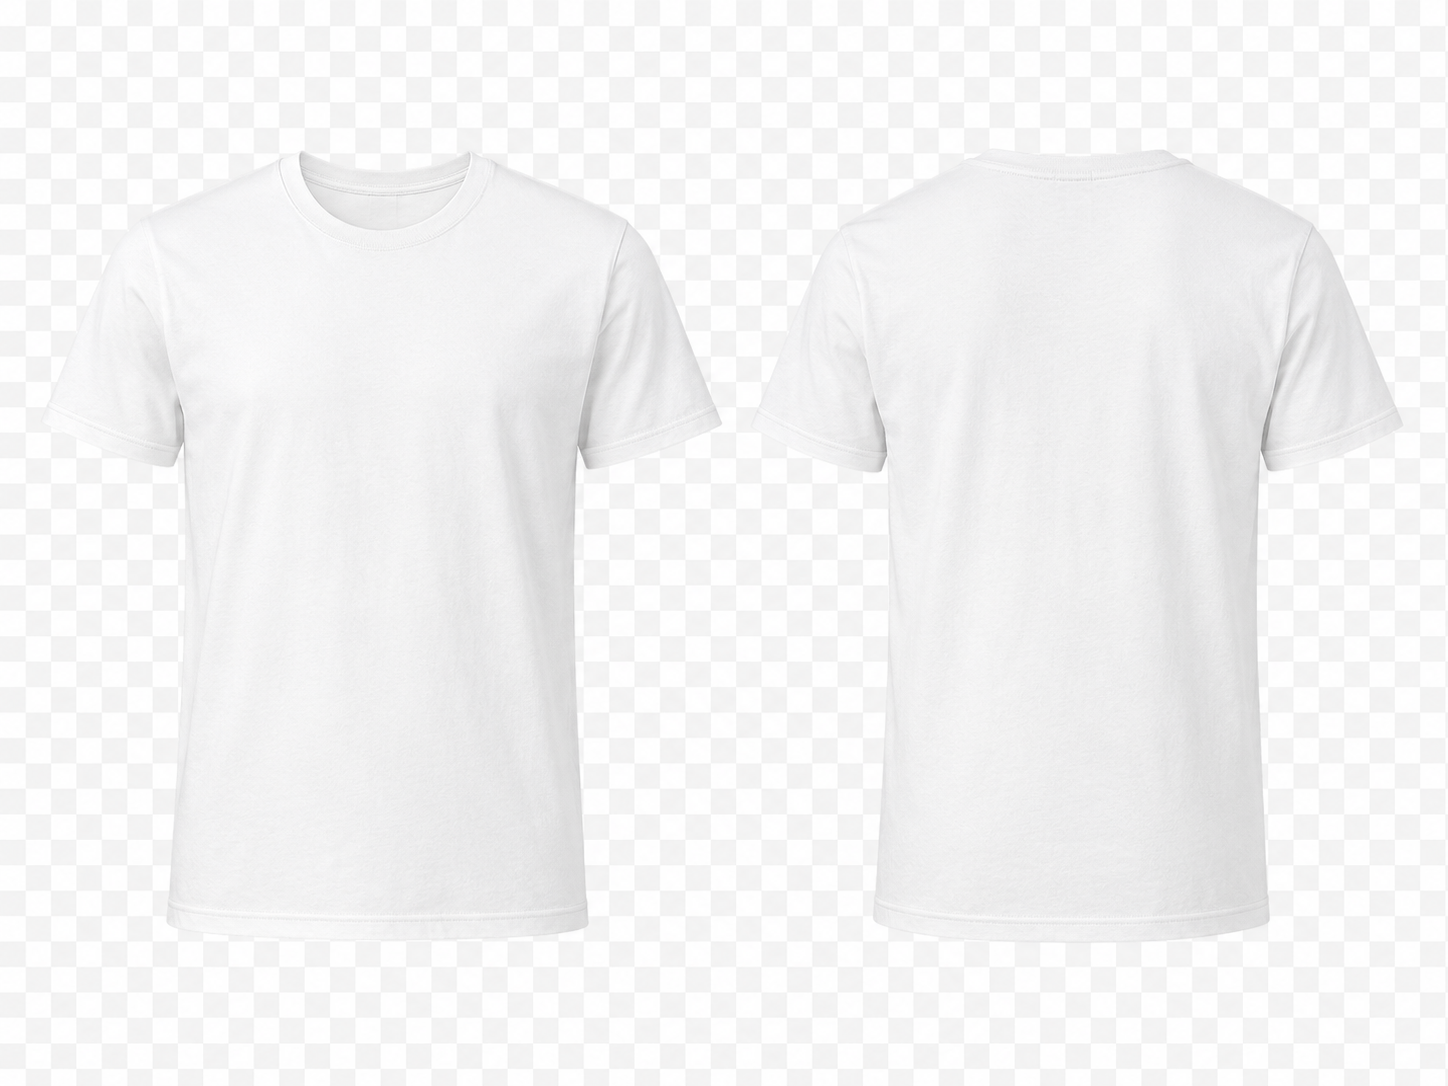
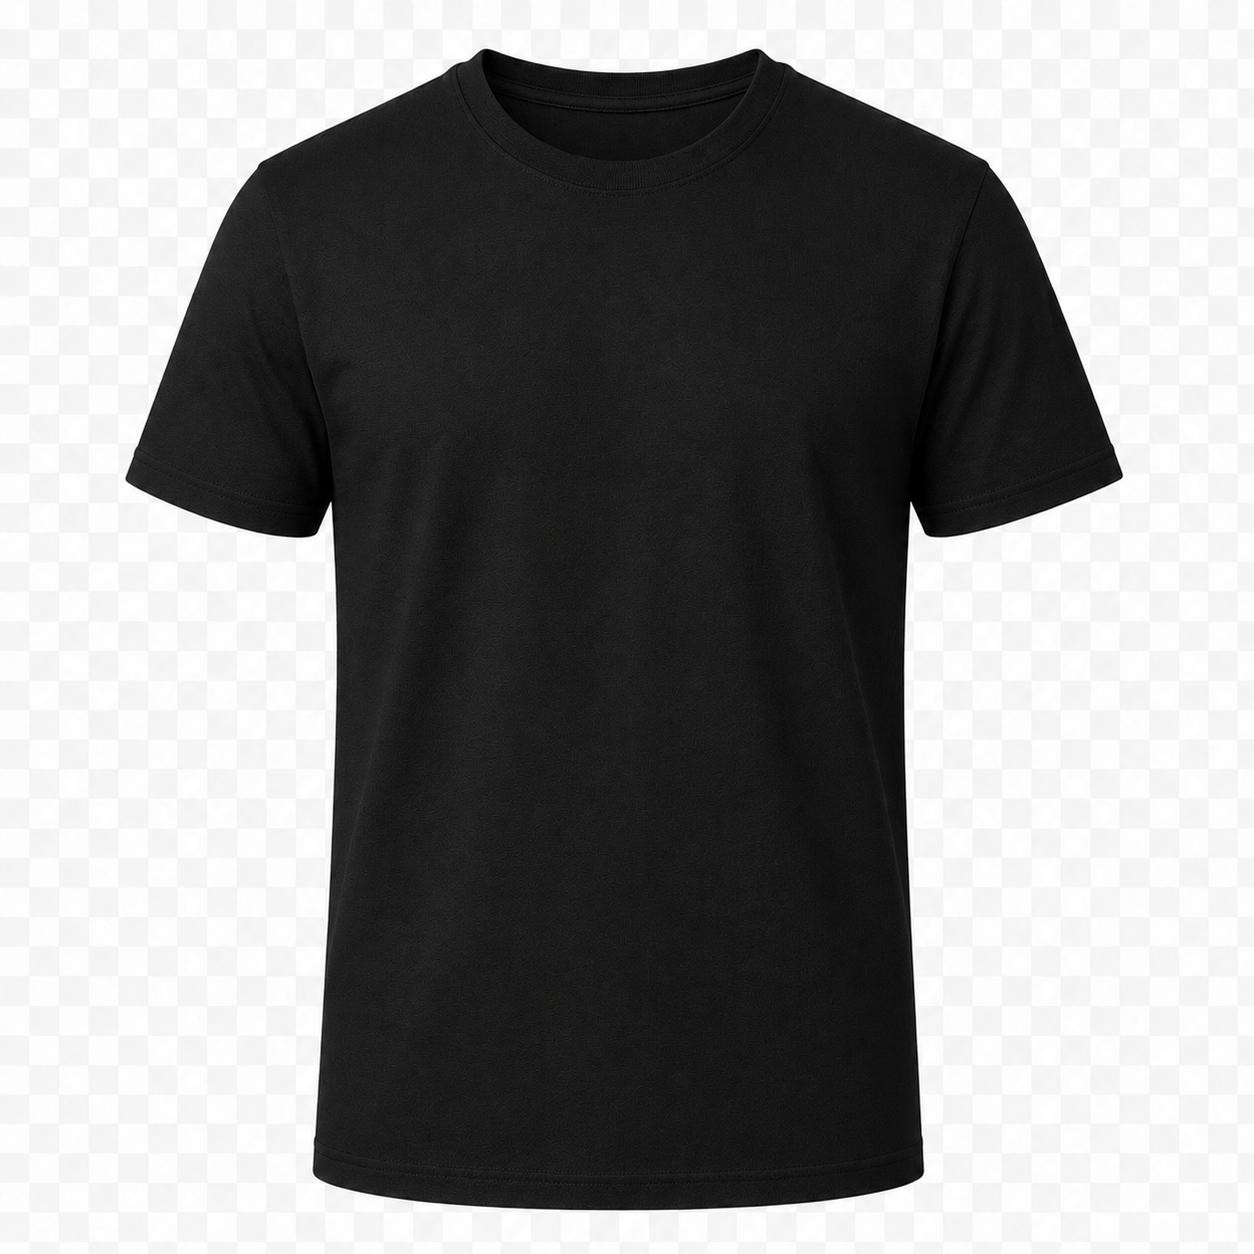
save

diff --git a/components/configurator/ConfiguratorPreview.tsx b/components/configurator/ConfiguratorPreview.tsx
@@ -2,7 +2,11 @@
 
 import { useRef } from "react";
 import type { PointerEvent as ReactPointerEvent } from "react";
-import { useConfiguratorStore } from "@/features/configurator/store";
+import {
+  useConfiguratorStore,
+  GRAPHIC_SCALE_MIN,
+  GRAPHIC_SCALE_MAX,
+} from "@/features/configurator/store";
 import { GarmentPhoto } from "@/components/configurator/GarmentPhoto";
 import { getGarment } from "@/lib/garments";
 import { getPrintArea, printAreaClipPath, clampToPrintArea } from "@/features/configurator/printArea";
@@ -24,15 +28,18 @@ function iconTintFor(color: GarmentColorId): string {
 
 type DragLayer = "graphic" | "text";
 
+function clamp(value: number, min: number, max: number): number {
+  return Math.min(max, Math.max(min, value));
+}
+
+type DragState =
+  | { mode: "move"; layer: DragLayer; startX: number; startY: number; origX: number; origY: number }
+  | { mode: "resize"; startX: number; startY: number; origScale: number; centerX: number; centerY: number };
+
 export function ConfiguratorPreview() {
   const frameRef = useRef<HTMLDivElement>(null);
-  const dragRef = useRef<{
-    layer: DragLayer;
-    startX: number;
-    startY: number;
-    origX: number;
-    origY: number;
-  } | null>(null);
+  const graphicRef = useRef<HTMLDivElement>(null);
+  const dragRef = useRef<DragState | null>(null);
 
   const {
     garmentStyle,
@@ -60,6 +67,7 @@ export function ConfiguratorPreview() {
     if (!target) return;
     e.currentTarget.setPointerCapture(e.pointerId);
     dragRef.current = {
+      mode: "move",
       layer,
       startX: e.clientX,
       startY: e.clientY,
@@ -68,10 +76,39 @@ export function ConfiguratorPreview() {
     };
   }
 
+  function handleResizeStart(e: ReactPointerEvent) {
+    e.stopPropagation();
+    if (!side.graphic || !graphicRef.current) return;
+    e.currentTarget.setPointerCapture(e.pointerId);
+    const box = graphicRef.current.getBoundingClientRect();
+    dragRef.current = {
+      mode: "resize",
+      startX: e.clientX,
+      startY: e.clientY,
+      origScale: side.graphic.scale,
+      centerX: box.left + box.width / 2,
+      centerY: box.top + box.height / 2,
+    };
+  }
+
   function handlePointerMove(e: ReactPointerEvent) {
     const drag = dragRef.current;
     const frame = frameRef.current;
     if (!drag || !frame) return;
+
+    if (drag.mode === "resize") {
+      const startDist = Math.hypot(drag.startX - drag.centerX, drag.startY - drag.centerY);
+      const currentDist = Math.hypot(e.clientX - drag.centerX, e.clientY - drag.centerY);
+      if (startDist < 1) return;
+      const nextScale = clamp(
+        drag.origScale * (currentDist / startDist),
+        GRAPHIC_SCALE_MIN,
+        GRAPHIC_SCALE_MAX,
+      );
+      updateGraphic(view, { scale: nextScale });
+      return;
+    }
+
     const rect = frame.getBoundingClientRect();
     const dxPct = ((e.clientX - drag.startX) / rect.width) * 100;
     const dyPct = ((e.clientY - drag.startY) / rect.height) * 100;
@@ -104,31 +141,57 @@ export function ConfiguratorPreview() {
       >
         {side.graphic && (
           <div
+            ref={graphicRef}
             aria-hidden="true"
             onPointerDown={(e) => handlePointerDown(e, "graphic")}
             className="absolute left-1/2 top-1/2 h-24 w-24 cursor-grab active:cursor-grabbing"
             style={{
               transform: `translate(-50%, -50%) translate(${side.graphic.x}%, ${side.graphic.y}%) scale(${side.graphic.scale}) rotate(${side.graphic.rotation}deg)`,
-              mixBlendMode: useMultiply ? "multiply" : undefined,
             }}
           >
-            {side.graphic.source === "upload" ? (
-              // eslint-disable-next-line @next/next/no-img-element -- user-uploaded data URL, not a static asset
-              <img
-                src={side.graphic.value}
-                alt=""
-                className="h-full w-full object-contain"
-                draggable={false}
-              />
-            ) : libraryGraphic ? (
-              <svg viewBox={libraryGraphic.viewBox} className="h-full w-full">
-                <path
-                  d={libraryGraphic.path}
-                  fillRule={libraryGraphic.fillRule}
-                  fill={iconTintFor(color)}
+            <div
+              className="h-full w-full"
+              style={{ mixBlendMode: useMultiply ? "multiply" : undefined }}
+            >
+              {side.graphic.source === "upload" ? (
+                // eslint-disable-next-line @next/next/no-img-element -- user-uploaded data URL, not a static asset
+                <img
+                  src={side.graphic.value}
+                  alt=""
+                  className="h-full w-full object-contain"
+                  draggable={false}
                 />
+              ) : libraryGraphic ? (
+                <svg viewBox={libraryGraphic.viewBox} className="h-full w-full">
+                  <path
+                    d={libraryGraphic.path}
+                    fillRule={libraryGraphic.fillRule}
+                    fill={iconTintFor(color)}
+                  />
+                </svg>
+              ) : null}
+            </div>
+
+            <div
+              aria-hidden="true"
+              onPointerDown={handleResizeStart}
+              className="absolute -bottom-2.5 -right-2.5 flex h-6 w-6 cursor-nwse-resize items-center justify-center rounded-full border border-white/70 bg-bg text-accent shadow-md shadow-black/50 transition-colors hover:bg-accent hover:text-accent-fg"
+              style={{ transform: `scale(${1 / side.graphic.scale})` }}
+            >
+              <svg
+                viewBox="0 0 24 24"
+                fill="none"
+                stroke="currentColor"
+                strokeWidth={2.5}
+                strokeLinecap="round"
+                strokeLinejoin="round"
+                className="h-3 w-3"
+              >
+                <line x1="19" y1="5" x2="5" y2="19" />
+                <polyline points="19 11 19 5 13 5" />
+                <polyline points="5 13 5 19 11 19" />
               </svg>
-            ) : null}
+            </div>
           </div>
         )}
 

diff --git a/components/configurator/steps/StepGraphic.tsx b/components/configurator/steps/StepGraphic.tsx
@@ -6,6 +6,8 @@ import { useTranslations } from "next-intl";
 import {
   useConfiguratorStore,
   defaultGraphicLayer,
+  GRAPHIC_SCALE_MIN,
+  GRAPHIC_SCALE_MAX,
 } from "@/features/configurator/store";
 import { getGarment } from "@/lib/garments";
 import { getPrintArea, printAreaOffsetBounds } from "@/features/configurator/printArea";
@@ -148,8 +150,8 @@ export function StepGraphic() {
           <Slider
             label={t("graphicScale")}
             value={graphic.scale}
-            min={0.3}
-            max={2.5}
+            min={GRAPHIC_SCALE_MIN}
+            max={GRAPHIC_SCALE_MAX}
             step={0.05}
             onChange={(v) => updateGraphic(view, { scale: v })}
             formatValue={(v) => `${Math.round(v * 100)}%`}

diff --git a/features/configurator/store.ts b/features/configurator/store.ts
@@ -9,6 +9,9 @@ import type {
   TextLayer,
 } from "@/types/configurator";
 
+export const GRAPHIC_SCALE_MIN = 0.3;
+export const GRAPHIC_SCALE_MAX = 2.5;
+
 export function defaultConfig(garmentStyle: GarmentStyle): ConfiguratorConfig {
   return {
     garmentStyle,
